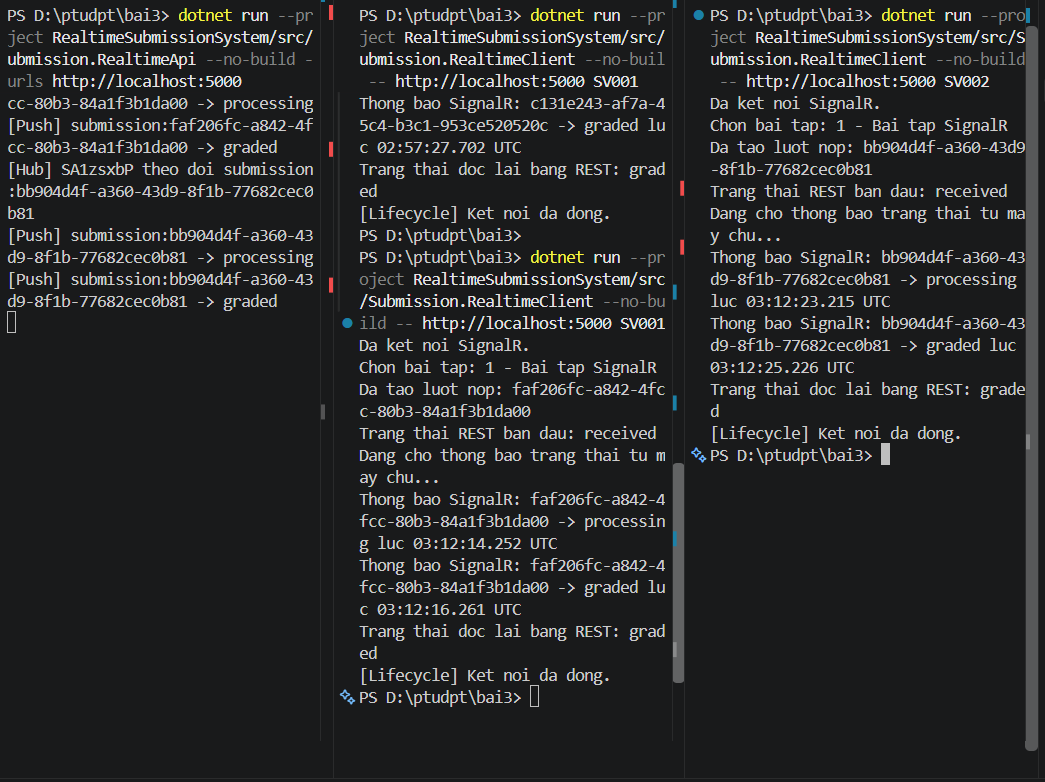
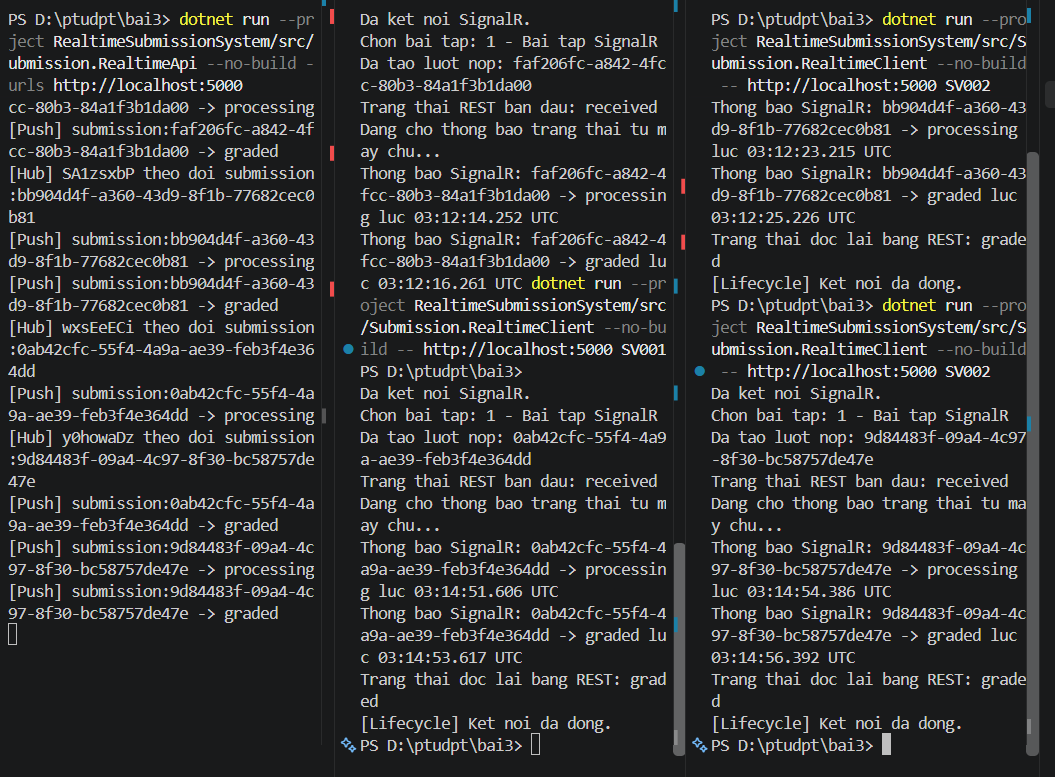
Bai3: thay anh hai client co thoi gian xu ly chong nhau

Changed region(s): [[0.0, 0.0, 1.0, 0.9884]]

diff --git a/Đàm Văn Việt - dtc245200682/Bai3/README.md b/Đàm Văn Việt - dtc245200682/Bai3/README.md
@@ -295,7 +295,7 @@ Ca 9 dùng `/hub/submissions/negotiate`, nhận `404 Not Found`, body rỗng vì
 
 ![Hai client SV001 và SV002 nhận đúng ID lượt nộp](anh/edusubmit-hai-client.png)
 
-SV001 nhận `processing` và `graded` cho ID `faf206fc-a842-4fcc-80b3-84a1f3b1da00`; SV002 nhận hai trạng thái cho ID `bb904d4f-a360-43d9-8f1b-77682cec0b81`. Mỗi client đọc lại REST được `graded`. Trong ảnh này SV001 hoàn tất lúc 03:12:16.261 UTC, SV002 bắt đầu nhận `processing` lúc 03:12:23.215 UTC, nên hai lượt chưa chạy chồng thời gian. Ảnh minh họa việc nhận đúng ID ở hai client; kiểm tra hai client đồng thời được lưu riêng trong log kiểm thử tự động.
+Trong lần chạy mới ở nửa dưới ảnh, SV001 theo dõi ID `0ab42cfc-55f4-4a9a-ae39-feb3f4e364dd`, SV002 theo dõi ID `9d84483f-09a4-4c97-8f30-bc58757de47e`. Log server cho thấy client thứ hai đã Watch trước khi lượt thứ nhất chuyển sang `graded`, nên hai lượt có thời gian xử lý chồng nhau. SV001 nhận `processing` lúc 03:14:51.606 và `graded` lúc 03:14:53.617 UTC; SV002 nhận hai trạng thái lúc 03:14:54.386 và 03:14:56.392 UTC. Mỗi client chỉ nhận thông báo cho ID mình theo dõi, đọc lại REST được `graded` và tự thoát. Phần trên ảnh còn output của lần chạy trước.
 
 Các ảnh còn lại dưới đây hiển thị log kiểm thử tự động qua trình duyệt. Bài tập hai lượt nộp và thí nghiệm sai tên/Watch muộn chưa có ảnh chụp trực tiếp. Log gốc nằm trong `evidence/`.
 
